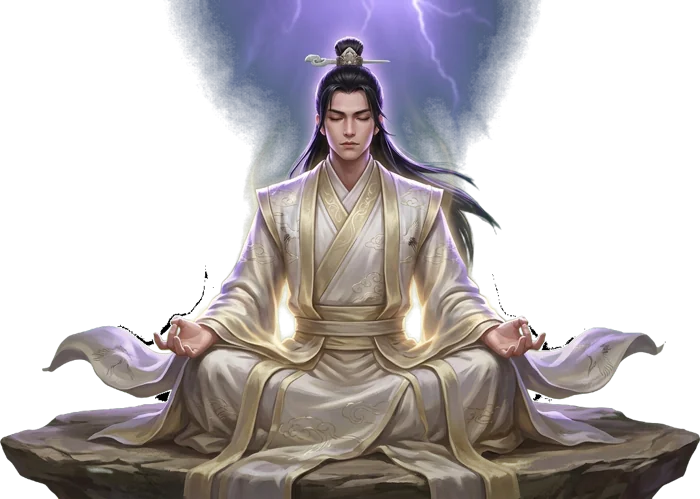
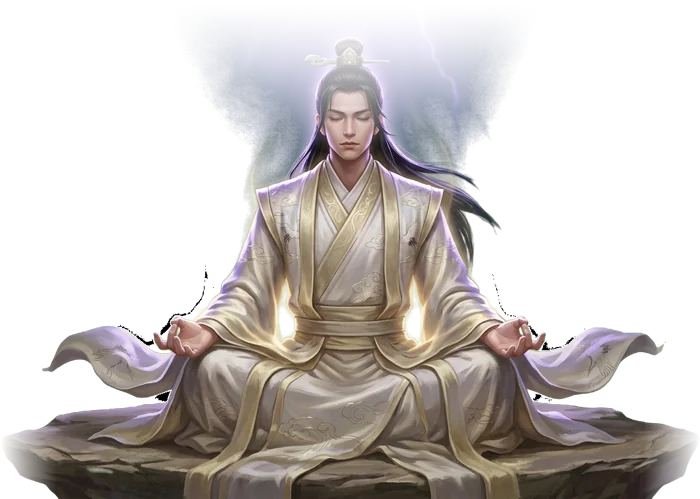
渡劫人物图顶部渐隐，劫雷落点对准头顶

diff --git a/web/index.html b/web/index.html
@@ -6,7 +6,7 @@
 <meta name="theme-color" content="#14110f">
 <meta name="apple-mobile-web-app-capable" content="yes">
 <title>问道长生 · 文字修仙</title>
-<link rel="stylesheet" href="css/style.css?v=78">
+<link rel="stylesheet" href="css/style.css?v=79">
 </head>
 <body>
 <div id="app">
@@ -52,66 +52,66 @@
     b.textContent += "脚本错误：" + e.filename.split("/").slice(-2).join("/").split("?")[0] + " 第 " + e.lineno + " 行：" + e.message + "\n";
   });
 </script>
-<script src="js/config/realm.js?v=78"></script>
-<script src="js/config/player.js?v=78"></script>
-<script src="js/config/array.js?v=78"></script>
-<script src="js/config/monster.js?v=78"></script>
-<script src="js/config/explore.js?v=78"></script>
-<script src="js/config/drops.js?v=78"></script>
-<script src="js/config/worldmaps.js?v=78"></script>
-<script src="js/config/xingjun.js?v=78"></script>
-<script src="js/config/battle.js?v=78"></script>
-<script src="js/config/equip.js?v=78"></script>
-<script src="js/config/start.js?v=78"></script>
-<script src="js/config/gongfa.js?v=78"></script>
-<script src="js/config/lingen.js?v=78"></script>
-<script src="js/config/items.js?v=78"></script>
-<script src="js/config/alchemy.js?v=78"></script>
-<script src="js/config/furnace.js?v=78"></script>
-<script src="js/config/forge.js?v=78"></script>
-<script src="js/config/garden.js?v=78"></script>
-<script src="js/config/trib.js?v=78"></script>
-<script src="js/config/sect.js?v=78"></script>
-<script src="js/config/wudao.js?v=78"></script>
-<script src="js/config/craftsman.js?v=78"></script>
-<script src="js/config/mijing.js?v=78"></script>
-<script src="js/config/lingdi.js?v=78"></script>
-<script src="js/config/body.js?v=78"></script>
-<script src="js/config/names.js?v=78"></script>
+<script src="js/config/realm.js?v=79"></script>
+<script src="js/config/player.js?v=79"></script>
+<script src="js/config/array.js?v=79"></script>
+<script src="js/config/monster.js?v=79"></script>
+<script src="js/config/explore.js?v=79"></script>
+<script src="js/config/drops.js?v=79"></script>
+<script src="js/config/worldmaps.js?v=79"></script>
+<script src="js/config/xingjun.js?v=79"></script>
+<script src="js/config/battle.js?v=79"></script>
+<script src="js/config/equip.js?v=79"></script>
+<script src="js/config/start.js?v=79"></script>
+<script src="js/config/gongfa.js?v=79"></script>
+<script src="js/config/lingen.js?v=79"></script>
+<script src="js/config/items.js?v=79"></script>
+<script src="js/config/alchemy.js?v=79"></script>
+<script src="js/config/furnace.js?v=79"></script>
+<script src="js/config/forge.js?v=79"></script>
+<script src="js/config/garden.js?v=79"></script>
+<script src="js/config/trib.js?v=79"></script>
+<script src="js/config/sect.js?v=79"></script>
+<script src="js/config/wudao.js?v=79"></script>
+<script src="js/config/craftsman.js?v=79"></script>
+<script src="js/config/mijing.js?v=79"></script>
+<script src="js/config/lingdi.js?v=79"></script>
+<script src="js/config/body.js?v=79"></script>
+<script src="js/config/names.js?v=79"></script>
 <!-- 自定义物品、坊市、宗门宝库、地图掉落（不是数值文件） -->
-<script src="js/content/items.js?v=78"></script>
-<script src="js/data/names.js?v=78"></script>
-<script src="js/data/realms.js?v=78"></script>
-<script src="js/data/pills.js?v=78"></script>
-<script src="js/data/cave.js?v=78"></script>
-<script src="js/data/sects.js?v=78"></script>
-<script src="js/data/gongfa.js?v=78"></script>
-<script src="js/data/items.js?v=78"></script>
-<script src="js/data/maps.js?v=78"></script>
-<script src="js/data/craft.js?v=78"></script>
-<script src="js/data/forge.js?v=78"></script>
-<script src="js/data/refstats.js?v=78"></script>
+<script src="js/content/items.js?v=79"></script>
+<script src="js/data/names.js?v=79"></script>
+<script src="js/data/realms.js?v=79"></script>
+<script src="js/data/pills.js?v=79"></script>
+<script src="js/data/cave.js?v=79"></script>
+<script src="js/data/sects.js?v=79"></script>
+<script src="js/data/gongfa.js?v=79"></script>
+<script src="js/data/items.js?v=79"></script>
+<script src="js/data/maps.js?v=79"></script>
+<script src="js/data/craft.js?v=79"></script>
+<script src="js/data/forge.js?v=79"></script>
+<script src="js/data/refstats.js?v=79"></script>
 
-<script src="js/core/util.js?v=78"></script>
-<script src="js/core/api.js?v=78"></script>
-<script src="js/core/game.js?v=78"></script>
+<script src="js/core/util.js?v=79"></script>
+<script src="js/core/api.js?v=79"></script>
+<script src="js/core/game.js?v=79"></script>
 
-<script src="js/modules/player.js?v=78"></script>
-<script src="js/modules/cave.js?v=78"></script>
-<script src="js/modules/bag.js?v=78"></script>
-<script src="js/modules/custom.js?v=78"></script>
-<script src="js/modules/gongfa.js?v=78"></script>
-<script src="js/modules/sect.js?v=78"></script>
-<script src="js/modules/cultivate.js?v=78"></script>
-<script src="js/modules/trib.js?v=78"></script>
-<script src="js/modules/body.js?v=78"></script>
-<script src="js/modules/world.js?v=78"></script>
-<script src="js/modules/xingjun.js?v=78"></script>
-<script src="js/modules/lingen.js?v=78"></script>
-<script src="js/modules/craft.js?v=78"></script>
-<script src="js/modules/wudao.js?v=78"></script>
-<script src="js/modules/garden.js?v=78"></script>
-<script src="js/modules/account.js?v=78"></script>
+<script src="js/modules/player.js?v=79"></script>
+<script src="js/modules/cave.js?v=79"></script>
+<script src="js/modules/bag.js?v=79"></script>
+<script src="js/modules/custom.js?v=79"></script>
+<script src="js/modules/gongfa.js?v=79"></script>
+<script src="js/modules/sect.js?v=79"></script>
+<script src="js/modules/cultivate.js?v=79"></script>
+<script src="js/modules/trib.js?v=79"></script>
+<script src="js/modules/body.js?v=79"></script>
+<script src="js/modules/world.js?v=79"></script>
+<script src="js/modules/xingjun.js?v=79"></script>
+<script src="js/modules/lingen.js?v=79"></script>
+<script src="js/modules/craft.js?v=79"></script>
+<script src="js/modules/wudao.js?v=79"></script>
+<script src="js/modules/garden.js?v=79"></script>
+<script src="js/modules/account.js?v=79"></script>
 
 <script>G.init();</script>
 </body>

diff --git a/web/css/style.css b/web/css/style.css
@@ -206,7 +206,7 @@ button.sm.active{background:#5a4220;border-color:#c9a45c;color:#f3d48b}   /* v24
 .tj-bolt svg{width:100%;height:100%;overflow:visible}
 .tj-bolt polyline{fill:none;stroke:#fbf9ff;stroke-linejoin:round;stroke-linecap:round;vector-effect:non-scaling-stroke;filter:drop-shadow(0 0 3px #c8bcff) drop-shadow(0 0 9px #8a73ff) drop-shadow(0 0 18px #6a4dff)}
 .tj-bolt.crit polyline{stroke:#fff6d8;filter:drop-shadow(0 0 4px #ffe08a) drop-shadow(0 0 12px #b89cff) drop-shadow(0 0 24px #7d5bff)}
-.tj-hitglow{position:absolute;left:50%;top:60%;width:120px;height:120px;transform:translate(-50%,-50%);border-radius:50%;background:radial-gradient(circle,#ffffffcc 0%,#b9a8ff66 30%,transparent 70%)}
+.tj-hitglow{position:absolute;left:50%;top:62%;width:120px;height:120px;transform:translate(-50%,-50%);border-radius:50%;background:radial-gradient(circle,#ffffffcc 0%,#b9a8ff66 30%,transparent 70%)}
 @keyframes tjBolt{0%{opacity:1}12%{opacity:.25}24%{opacity:1}55%{opacity:.7}100%{opacity:0}}
 .tj-shake{animation:tjShake .35s}
 @keyframes tjShake{0%,100%{transform:translateX(0)}20%{transform:translateX(-6px)}40%{transform:translateX(5px)}60%{transform:translateX(-3px)}80%{transform:translateX(2px)}}

diff --git a/web/js/modules/trib.js b/web/js/modules/trib.js
@@ -162,7 +162,7 @@ G.module({
         for (let i = 1; i < n; i++) { const k = i / n; p.push([x0 + (x1 - x0) * k + (Math.random() - 0.5) * amp, y0 + (y1 - y0) * k]); }
         p.push([x1, y1]); return p;
       };
-      const main = zig(50 + (Math.random() - 0.5) * 10, 16, 50, 60, 9, 9);
+      const main = zig(50 + (Math.random() - 0.5) * 10, 16, 50, 62, 9, 9);
       const lines = [main];
       for (let i = 0; i < 3; i++) {   // 分叉
         const s = main[1 + Math.floor(Math.random() * 5)], dir = Math.random() < 0.5 ? -1 : 1;
